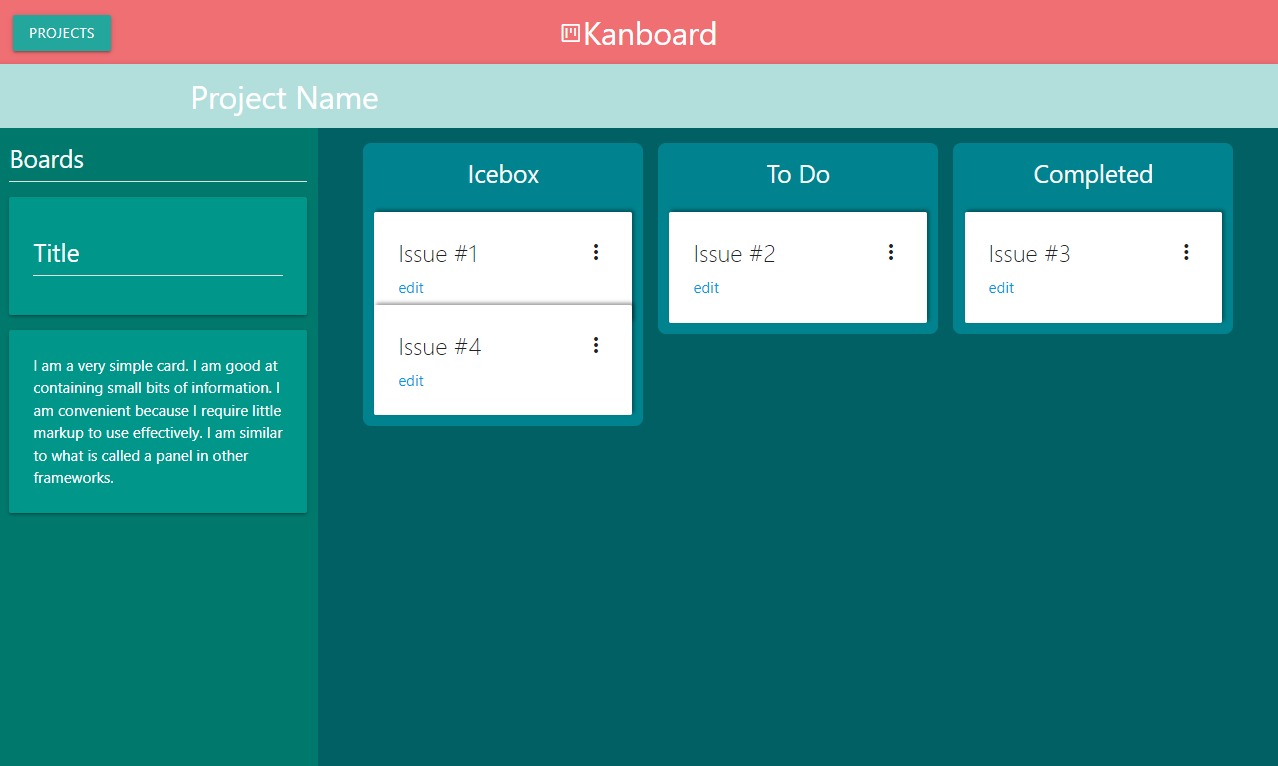
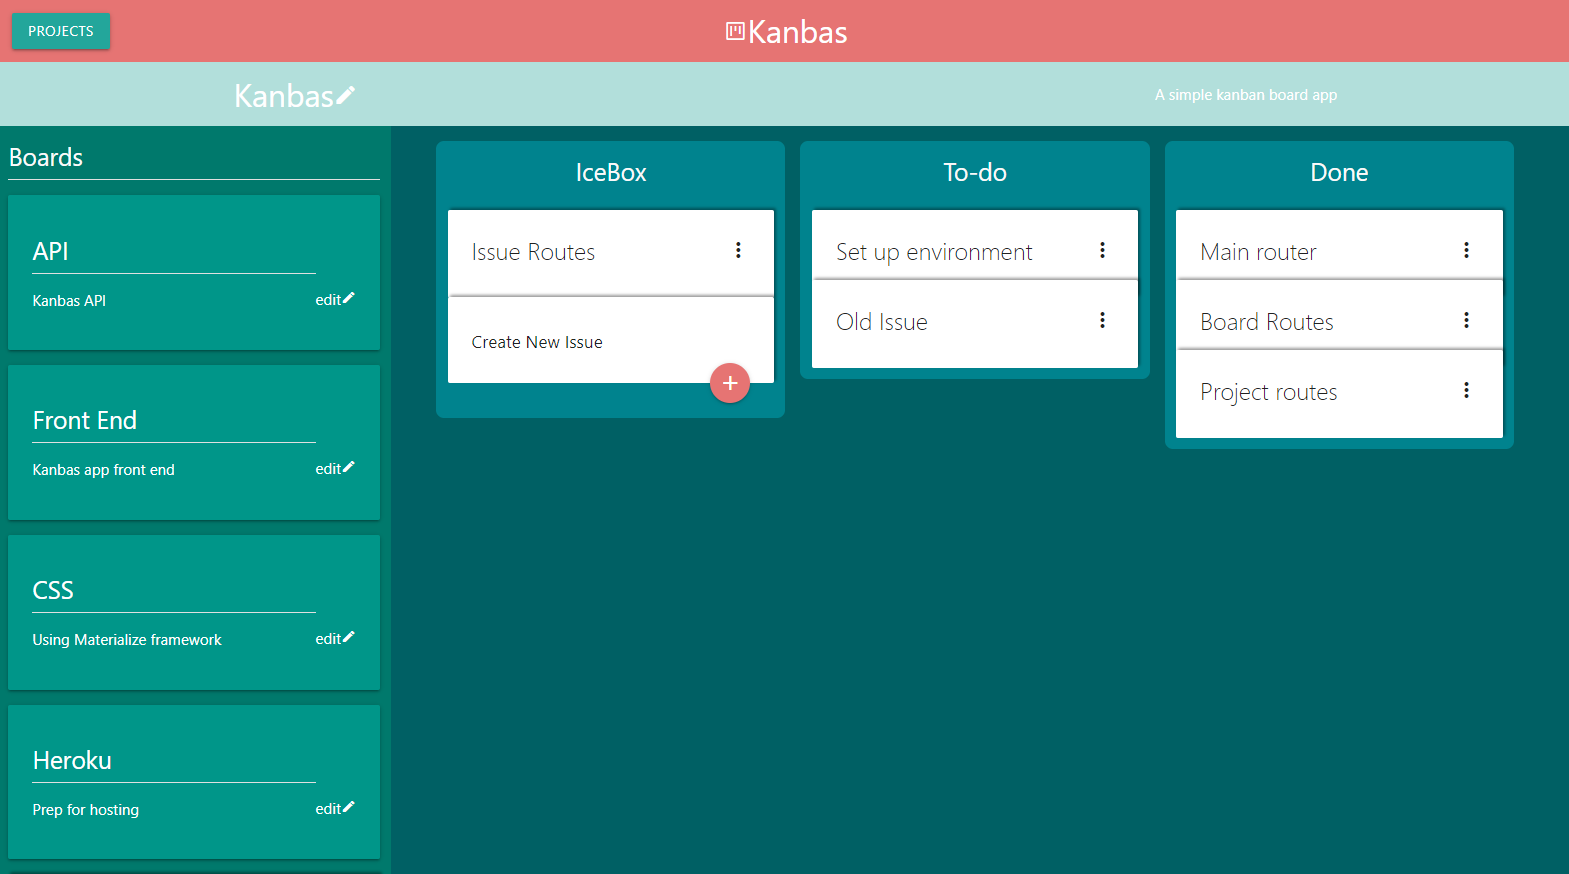
MVP:Updated MD

diff --git a/README.md b/README.md
@@ -1,3 +1,25 @@
 # Kanboard
-A simple Kanban based project manager
+A simple Kanban based project manager full stack app
 ![ScreenShot](/assets/Screenshot%202022-07-27%20004057.png)
+
+# Technologies Used:
+**Front End:**
+
+Project developed with JavaScript, HTML5, CSS, Materialize CSS framework.
+
+**Back End API:**
+RESTful API developed with Node, Express and Mongoose (MongoDB)
+
+# Getting Started: 
+App Link: TBD
+
+# QUICK VIDEO DEMO
+
+![ScreenShot](/assets/Kanbas_MiniDemo.gif)
+
+# Future Enhancements
+- ***Color Coding for Issue cards:*** Keep your issues sorted by group or urgency.
+
+- ***Possibility to add more*** **STATE** ***columns to each boards***
+- ***Multiple User and authentication***: For multi user experience.
+- ***Custom color themes*** So it doesn't look like you are playing solitaire during work hours.
